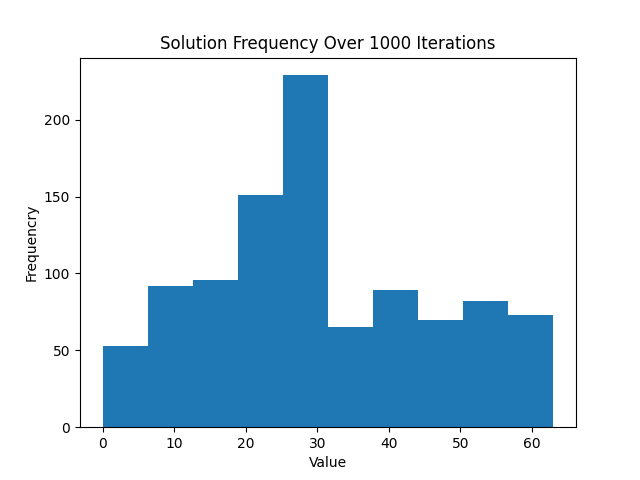
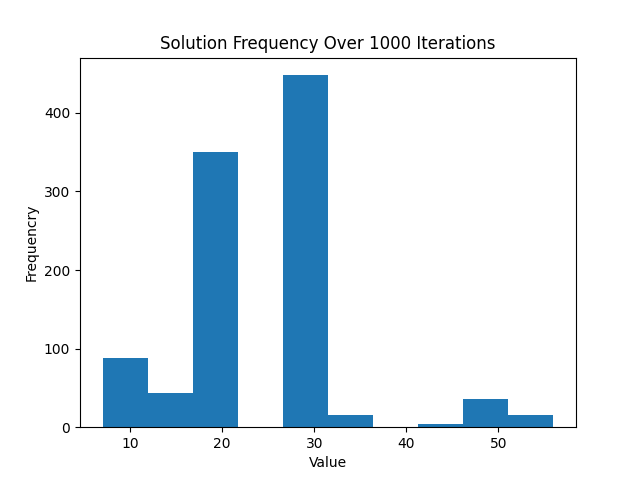
physical model integration

diff --git a/vcma_mod_single.py b/vcma_mod_single.py
@@ -1,0 +1,130 @@
+import numpy as np
+
+def vcma_mod_single(init,ph_init,Jappl,v_hold):
+    t_step = 1e-10
+    v_pulse = 0
+    J_she = 5e11
+    t_pulse = 20e-9
+    t_relax = 20e-9
+    bitstr = []
+
+    uB = 9.274e-24
+    h_bar = 1.054e-34          
+    u0 = np.pi*4e-7               
+    e = 1.6e-19                
+    kb = 1.38e-23;              
+    gamma = 2*u0*uB/h_bar           # Gyromagnetic ratio in m/As
+    gamma_b = gamma/u0
+
+    # MTJ Parameters- This is experimental values from real STT-SOT p-MTJ%
+    a = 50e-9                       # Width of the MTJ in m
+    b = 50e-9                       # Length of the MTJ in m
+    tf = 1.1e-9                     # Thickness of the freelayer in m                           
+    tox = 1.5e-9                    # Thickness of the MgO barrier in m
+    P = 0.7                         # Spin polarization of the tunnel current
+    alpha = 0.01                    # Gilbert damping damping factor
+    T = 300                         # Temperature in K
+    Ki = 1.0056364e-3               # The anisotropy energy in J/m2
+    Ms = 1.2e6                      # Saturation magnetization in A/m
+    Bsat = Ms*u0
+    ksi = 75e-15                    # VCMA coefficient in J/vm
+    gammap = gamma/(1+alpha*alpha)  # Reduced gyromagnetic ratio
+    v = tf*np.pi*b*a/4              # Volume of free layer of the elliptical MTJ
+    Vh = 0.5
+    delta = 40                      # Thermal stability factor at V=0
+    TMR = 1.2                       # TMR ratio at V=0,120%  
+    Rp = 8e3                        # Magenetoresistance at parallel state, 8000 Ohm
+    A = a*b*np.pi/4                 # MTJ area
+    eta = 0.3                       # Spin hall angle
+    w = 100e-9                    
+    l = 100e-9
+    d = 3e-9                        # Width,length and thichness of beta-W strip (heavy metal layer)
+    A2 = d*w                        # Cross-sectional area of heavy metal layer 
+    rho = 200e-8                    # Resistivity of beta-W
+    R2 = rho*l/(w*d)                # Resistance of beta-W
+    rho_ox = 1e15
+    d_ox = 50e-9
+    Rox = rho_ox*d_ox/(A)
+    
+    Hx = 0        
+    Hy = 0                     
+    Hz = 0 
+    Htherm = np.sqrt((2*u0*alpha*kb*T)/(Bsat*gamma_b*t_step*v))/u0  
+    
+    # STT factor;
+    F = (gamma*h_bar)/(2*u0*e*tf*Ms)     
+    
+    # Demagnetization field; This is experimental value
+    Nx = 0.010613177892974
+    Ny = 0.010613177892974
+    Nz = 0.978773644214052
+
+    #------------------------Initialization----------------------------#
+
+    phi = []
+    theta = []
+    energy = []
+    power = []
+    R = []         
+
+    if init:    
+        if init == 0:
+            print('Init theta cannot be 0, defaulted to pi/100')
+            r_init = np.pi/100
+            theta.append(r_init)  
+        else:
+            theta.append(init)
+            phi.append(ph_init)
+    else:
+        print('No init theta provided, defaulted to pi/100')
+        r_init = np.pi/100
+        theta.append(r_init)  
+
+    energy.append(0)
+    power.append(0)
+    R.append(Rp)                # TMR from Parallel state (Start from Rp=60)
+    for i in range(int(t_pulse/t_step)):
+        V = v_pulse+v_hold
+        J_SHE = J_she
+        J_STT = Jappl
+        Hk = (2*Ki)/(tf*Ms*u0)-(2*ksi*V)/(u0*Ms*tox*tf);                                                                     # effective anisotropy field with VCMA effect
+        Ax = Hx-Nx*Ms*np.sin(theta[-1])*np.cos(phi[-1])+np.random.normal()*Htherm                                            # x axis component of the effective magnetic field
+        Ay = Hy-Ny*Ms*np.sin(theta[-1])*np.sin(phi[-1])+np.random.normal()*Htherm                                            # y axis component of the effective magnetic field
+        Az = Hz-Nz*Ms*np.cos(theta[-1])+Hk*np.cos(theta[-1])-((alpha/(1+alpha*alpha))*F*P*J_STT)+np.random.normal()*Htherm   # z axis component of the effective magnetic field
+        dphi = gammap*(Ax*(-np.cos(theta[-1])*np.cos(phi[-1])-alpha*np.sin(phi[-1]))+Ay*(-np.cos(theta[-1])*np.sin(phi[-1])+alpha*np.cos(phi[-1]))+
+                        Az*np.sin(theta[-1]))/(np.sin(theta[-1]))+J_SHE*F*eta*(np.sin(phi[-1])-alpha*np.cos(phi[-1])*np.cos(theta[-1]))/(np.sin(theta[-1])*(1+alpha*alpha))           
+        dtheta = gammap*(Ax*(alpha*np.cos(theta[-1])*np.cos(phi[-1])-np.sin(phi[-1]))+Ay*(alpha*np.cos(theta[-1])*np.sin(phi[-1])+np.cos(phi[-1]))-
+                        Az*alpha*np.sin(theta[-1]))-J_SHE*F*eta*(np.cos(phi[-1])*np.cos(theta[-1])+alpha*np.sin(phi[-1]))/(1+alpha*alpha)     
+        R1 = Rp*(1+(V/Vh)**2+TMR)/(1+(V/Vh)**2+TMR*(1+(np.cos(theta[-1]) ))/2)
+        power.append(V**2/Rox+R2*(np.abs(J_SHE*A2))**2+R1*(J_STT*A)**2)
+        phi.append(phi[-1]+t_step*dphi)                                     
+        theta.append(theta[-1]+t_step*dtheta)
+        energy.append(energy[-1]+t_step*power[-1])
+        R.append(R1)     # MTJ Resistance 
+    for i in range(int(t_relax/t_step)):
+        V = v_hold
+        J_SHE = 0
+        J_STT = Jappl
+        Hk = (2*Ki)/(tf*Ms*u0)-(2*ksi*V)/(u0*Ms*tox*tf);  # effective anisotropy field with VCMA effect
+        Ax = Hx-Nx*Ms*np.sin(theta[-1])*np.cos(phi[-1])+np.random.normal()*Htherm                                               # x axis component of the effective magnetic field
+        Ay = Hy-Ny*Ms*np.sin(theta[-1])*np.sin(phi[-1])+np.random.normal()*Htherm                                               # y axis component of the effective magnetic field
+        Az = Hz-Nz*Ms*np.cos(theta[-1])+Hk*np.cos(theta[-1])-((alpha/(1+alpha*alpha))*F*P*J_STT)+np.random.normal()*Htherm      # z axis component of the effective magnetic field
+        dphi = gammap*(Ax*(-np.cos(theta[-1])*np.cos(phi[-1])-alpha*np.sin(phi[-1]))+Ay*(-np.cos(theta[-1])*np.sin(phi[-1])+alpha*np.cos(phi[-1]))+
+                        Az*np.sin(theta[-1]))/(np.sin(theta[-1]))+J_SHE*F*eta*(np.sin(phi[-1])-alpha*np.cos(phi[-1])*np.cos(theta[-1]))/(np.sin(theta[-1])*(1+alpha*alpha))           
+        dtheta = gammap*(Ax*(alpha*np.cos(theta[-1])*np.cos(phi[-1])-np.sin(phi[-1]))+Ay*(alpha*np.cos(theta[-1])*np.sin(phi[-1])+np.cos(phi[-1]))-
+                        Az*alpha*np.sin(theta[-1]))-J_SHE*F*eta*(np.cos(phi[-1])*np.cos(theta[-1])+alpha*np.sin(phi[-1]))/(1+alpha*alpha)     
+        R1 = Rp*(1+(V/Vh)**2+TMR)/(1+(V/Vh)**2+TMR*(1+(np.cos(theta[-1]) ))/2)
+        power.append(V**2/Rox+R2*(np.abs(J_SHE*A2))**2+R1*(J_STT*A)**2)
+        phi.append(phi[-1]+t_step*dphi)                                     
+        theta.append(theta[-1]+t_step*dtheta)
+        energy.append(energy[-1]+t_step*power[-1])
+        R.append(R1)     # MTJ Resistance 
+    bitstr.append(1 if np.cos(theta[-1]) > 0 else 0)
+    # R_angle = mod(R,2*pi)*180/pi;
+    
+    mx = np.sin(theta)*np.cos(phi)              #X axis component of magnetization vector m of free layer
+    my = np.sin(theta)*np.sin(phi)              #Y axis component of magnetization vector m of free layer
+    mz = np.cos(theta)                          #Z axis component of magnetization vector m of free layer
+    G = 1/np.array(R)
+    t = np.arange(0,len(mz)*t_step,t_step)
+    return theta[-1],phi[-1],bitstr[0],np.sum(power)*t_step

diff --git a/BM_samsvers.py b/BM_samsvers.py
@@ -1,53 +1,75 @@
 import numpy as np
-import random as rnd
-import copy
+import matplotlib.pyplot as plt
+from vcma_mod_single import vcma_mod_single
+import os
+from tqdm import tqdm
 
-#Boolean Clauses: (X||Y||Z), (X'||Y||Z), (X'||Y'||Z), (X||Y'||Z'), (X'||Y||Z')
-#Weight Matrix 
-W = np.array([[-4, -1, -1, 10, -1, -1], [-1, -7, -2, -2, 10, -1], \
-     [-1, -2, -6, -2, -1, 10], [10, -2, -2, -8, -1, -1], \
-     [-1, 10, -1, -1, -5, -1], [-1, -1, 10, -1, -1, -5]])
+# folder to save results
+date = "06_20_22"
+target_dir = ("RBM_Sim_" + date)
+
+# if folder does not exist, create it
+if not os.path.isdir("./outputs/"):
+    os.mkdir("./outputs/")
+
+# boolean clauses: (X||Y||Z) & (X'||Y||Z) & (X'||Y'||Z) & (X||Y'||Z') & (X'||Y||Z')
+# soln: 21/010101 28/011100
+W = np.array([[-5, -1, -1, 10, -1, -1], 
+              [-1, -7, -2, -2, 10, -1],
+              [-1, -2, -7, -2, -1, 10], 
+              [10, -2, -2, -7, -1, -1],
+              [-1, 10, -1, -1, -5, -1], 
+              [-1, -1, 10, -1, -1, -5]])
+
+# boolean clauses: (x||y||z) & (x'||y||z)
+# soln: 21/010101 28/011100
+# W = np.array([[-3, -1, -1, 10,  0,  0], 
+#               [-1, -5, -2, -1, 10,  0],
+#               [-1, -2, -5, -1,  0, 10], 
+#               [10, -1, -1, -3,  0,  0],
+#               [ 0, 10,  0,  0, -1,  0], 
+#               [ 0,  0, 10,  0,  0, -1]])
 
 
-#Initialize Gate Bias Voltage
-Vg = 20
+V_start = 0
+V_end = -1
+step = -0.05
+V_arr = np.arange(V_start,V_end-0.01,step)
+print(V_arr)
+Iter = 1000 # number of Simulations to Run
+sols = [] # empty array of solutions
+scale = 5e6
 
-#Initialize Temperature & Step Size
-Teff = 50
-step = 5
+# initialize neurons (The variables that make up our Boolean Clauses)
+thetas = np.array([np.pi/2,np.pi/2,np.pi/2,np.pi/2,np.pi/2,np.pi/2])
+phis = np.array([0,0,0,0,0,0])
+neurs = np.array([[0,0,0,0,0,0]])
+weighted = (neurs @ W) # stores the weighted neurons to determine activation probability
+sysenergy = (neurs @ W @ neurs.T)
 
-#Initialize Set Probability
-#Prob = 1/(1+np.exp(-(Vte - Vte0)/Teff))
+for f in range(0, Iter):
+    for h in range(0,6):
+        thetas[h],phis[h],out,energy = vcma_mod_single(thetas[h],phis[h],0,0)
+        neurs[0][h] = out
 
-#Initialize Sigmoid
-def sigmoid(x):
-    sig = 1/(1+np.exp(x))
-    return sig
+    for v in tqdm(V_arr,leave=False,ncols=80):
+        for g in range(0,5): # iterations per neuron
+            for h in range(0,5): 
+                thetas[h],phis[h],out,energy = vcma_mod_single(thetas[h],phis[h],weighted[0,h]*scale,v)
+                neurs[0][h] = out
+        weighted = (neurs @ W)
+    
+        #Function to Convert Binary neurons to Decimal
+        sum = 0
+        for k in range(0, len(neurs[0])):
+            sum += (neurs[0][k] * (2**(len(neurs[0])-k-1)))
+        sols.append(sum) #Save Solution
+    print(f'iteration {f}/{Iter}, {sum}, {bin(sum)}')
 
-#Initialize Neurons
-neurs = np.array([0,0,0,0,0,0])
-for h in range(0,6):
-    neurs[h] = rnd.randint(0, 1)
-print("Starting Solution:", neurs)
-
-#Initialize Energy
-temp = copy.deepcopy(neurs)
-curr = np.sum(np.array(np.transpose(neurs) * W * neurs))
-next = curr
-
-#Iterate until Temperature is 0
-while(Teff >= 0):
-    for h in range(0, 6):
-        temp[h] = (temp[h]+1) % 2
-        next = np.sum(np.transpose(temp) * W * temp)
-        rand = rnd.randint(0,10) / 10
-        if next < curr:
-            curr = next
-            neurs = copy.deepcopy(temp)
-        elif rand < sigmoid(-((Teff*0.16)-4)):
-            curr = next
-            neurs = copy.deepcopy(temp)
-        else:
-            temp = copy.deepcopy(neurs)
-        Teff -= step
-print("Ending Solution:  ", neurs)
+#Graphing of Histogram
+np.save('./sam_outputs/hist.npy',sols)
+plt.hist(sols,bins=10)
+plt.xlabel('Value')
+plt.ylabel('Frequencry')
+plt.title('Solution Frequency Over ' + str(Iter) + ' Iterations')
+plt.savefig('./sam_outputs/' + target_dir + '_' + str(Iter) + '_Histogram.png')

diff --git a/BM.py b/BM.py
@@ -22,8 +22,8 @@ W = np.array([[-4, -1, -1, 10, -1, -1], [-1, -7, -2, -2, 10, -1], \
               [-1, 10, -1, -1, -5, -1], [-1, -1, 10, -1, -1, -5]])
 
 #Initialize Temperature & Step Size (Dictates the _____ of the model)
-Teff = 50
-step = 5
+T_eff = 20
+step = 0.1
 Iter = 1000 #Number of Simulations to Run
 sols = [] #Empty array of solutions
 
@@ -41,10 +41,10 @@ for f in range(0, Iter):
     for h in range(0,6):
         neurs[0][h] = rnd.randint(0, 1)
 
-    Teff = 50 #Reset Temperature    
+    Teff = T_eff #Reset Temperature    
 
     #Iterate until the system has cooled
-    while(Teff >= 1):
+    while(Teff >= 0.5):
         for g in range(0, 6): #Iterations per temperature
             for h in range(0,5): #Do this to each Neuron
                 rand = rnd.uniform(0, 1) #rand num for determining set probability
